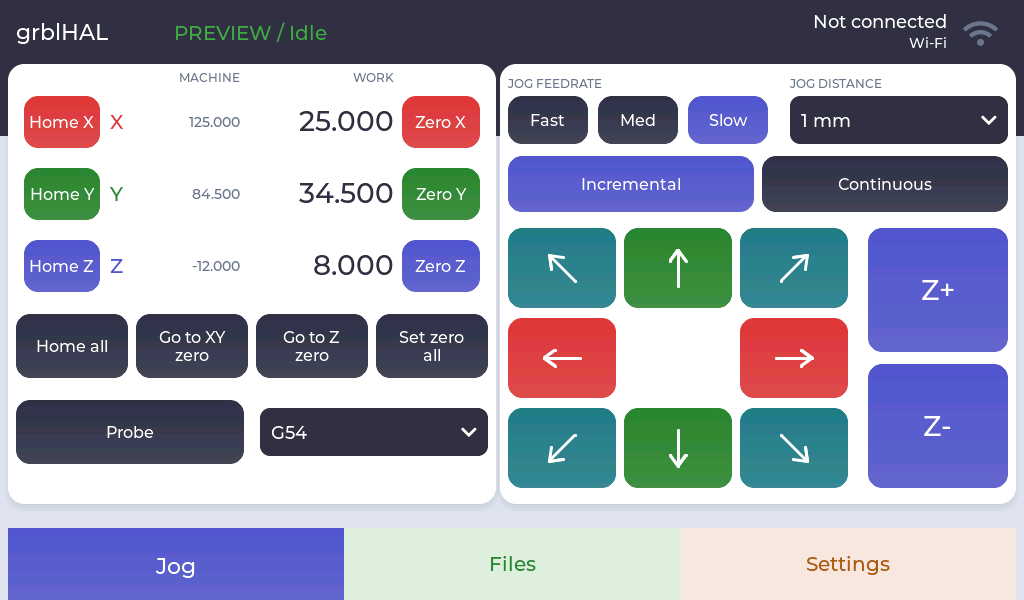
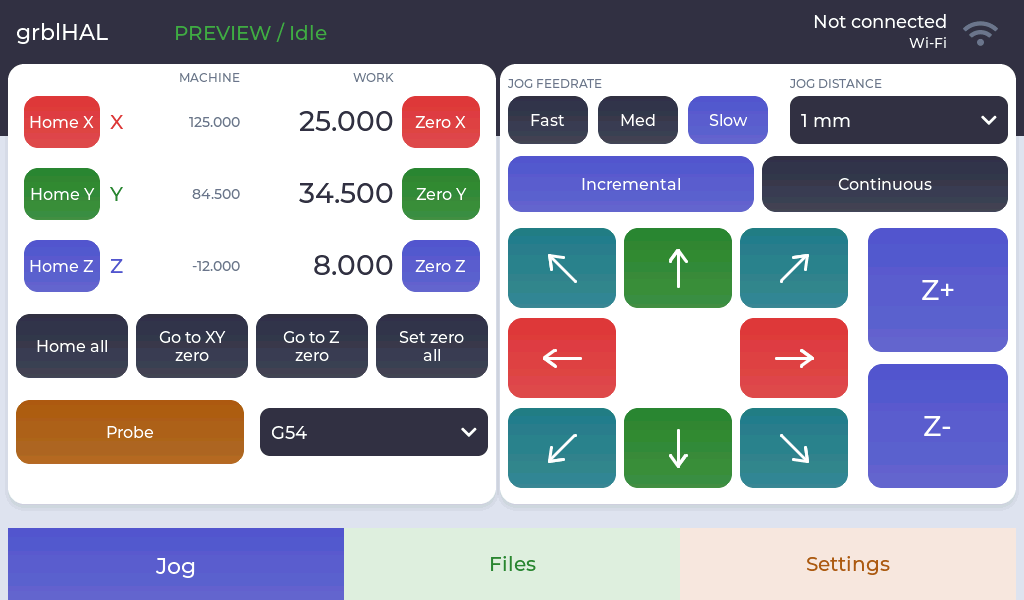
Highlight Probe action in orange

Changed region(s): [[0.0, 0.66, 0.25, 0.78]]

diff --git a/firmware/viewesmart-p4/main/panel_ui.cpp b/firmware/viewesmart-p4/main/panel_ui.cpp
@@ -1280,7 +1280,7 @@ extern "C" void panel_ui_create() {
     jog_tools = box(root, 16, 400, 472, 80, BG);
     lv_obj_set_style_border_width(jog_tools, 0, 0);
     lv_obj_set_style_bg_opa(jog_tools, LV_OPA_TRANSP, 0);
-    button(jog_tools, "Probe", 0, 0, 228, 64, show_probe);
+    button(jog_tools, "Probe", 0, 0, 228, 64, show_probe, 0, 0xA95B12);
     wcs_dropdown = dropdown(jog_tools, "G54\nG55\nG56\nG57\nG58\nG59", 0, 244, 8, 228, wcs);
     job_controls = box(root, 16, 330, 228, 80, BG);
     lv_obj_set_style_border_width(job_controls, 0, 0);
